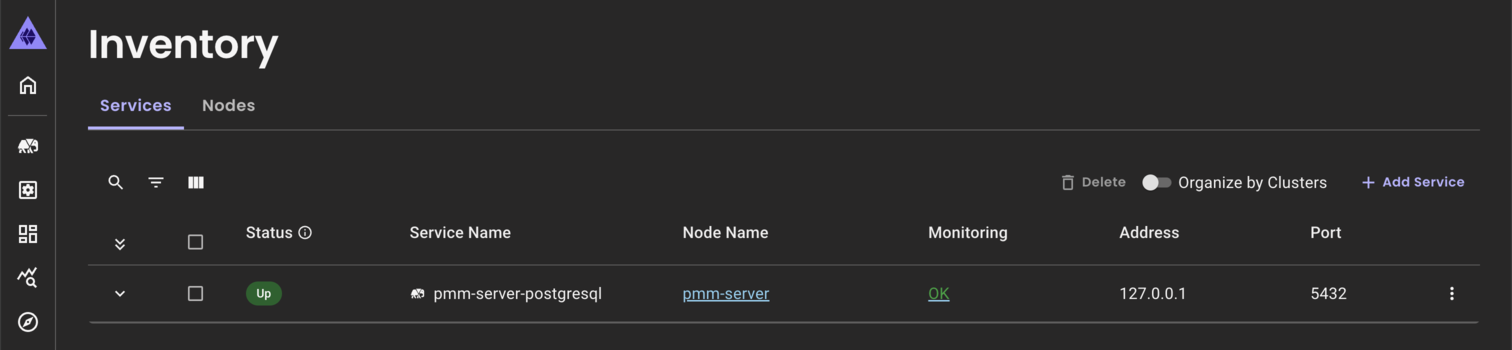
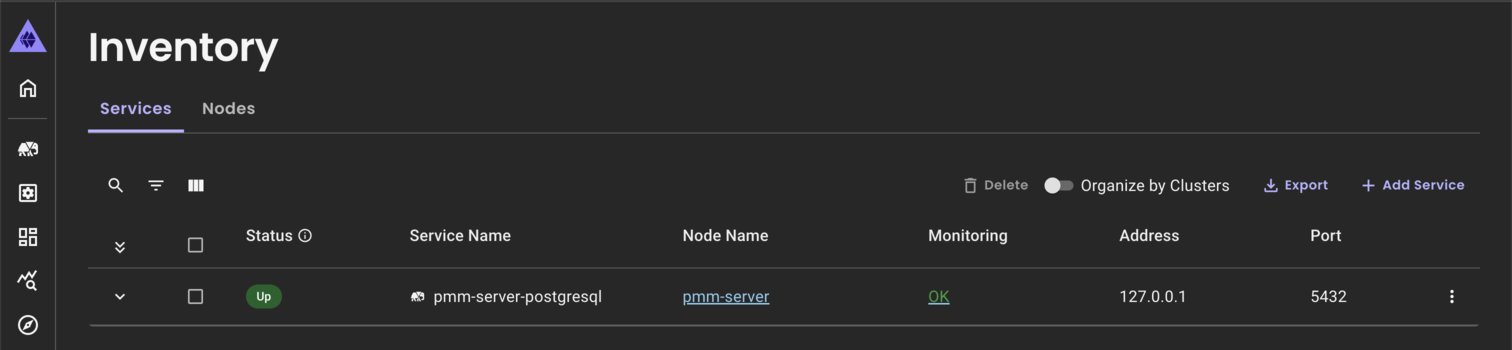
docs(inventory): document the Services CSV export
Cover the Export button from #6144 (PMM-15481) on the Inventory page:
which services the file holds, its fixed and label columns, the
label: prefix for clashing label names and the formula guard. Refresh
the Services screenshot so it shows the button, and add the 3.11.0
release note.

diff --git a/documentation/docs/use/dashboard-inventory.md b/documentation/docs/use/dashboard-inventory.md
@@ -1,6 +1,6 @@
 # About PMM Inventory
 
-The **Inventory** page lists every node, service and agent registered in PMM. Use it to check the monitoring status of your databases, edit service labels, and remove the objects that you no longer monitor.
+The **Inventory** page lists every node, service and agent registered in PMM. Use it to check the monitoring status of your databases, export your services to a CSV file, edit service labels, and remove the objects that you no longer monitor.
 
 Starting with PMM 3.11.0, **Inventory** is part of the PMM UI instead of a Grafana page. Bookmarks and links to the previous Inventory and service editing pages open the matching new page.
 
@@ -40,6 +40,8 @@ The **Services** tab lists the monitored services and the nodes that they run on
 | **Service ID** | The unique ID of the service. Hidden by default. |
 
 To add a service, click **Add Service**, or go to **Inventory > Add service**. For details, see [Connect databases](../install-pmm/install-pmm-client/connect-database/index.md).
+
+To download the services as a CSV file, click **Export**. For details, see [Export services to a CSV file](#export-services-to-a-csv-file).
 
 ### Service details
 
@@ -97,6 +99,44 @@ Each service has the following attributes:
     - PMM doesn't capture the version of the internal PostgreSQL database.
     - PMM captures the version only when you add the service with PMM Client 2.41.0 or later.
     - PMM doesn't update the version when you upgrade the database. To update it, remove the service and add it again.
+
+### Export services to a CSV file
+
+You can download the services as a CSV file, for example to keep an inventory report or to review the services in a spreadsheet.
+
+To export services:
+{.power-number}
+
+1. Go to **Inventory > Services**.
+2. To export only some services, search or filter the table, or select the checkboxes of the services to export.
+3. Click **Export**. PMM downloads the file as `inventory_services_export_{timestamp}.csv`.
+
+If you select services, the file contains only the selected services. Otherwise, it contains every service that matches the search and filters, in the order of the table. This includes the services on other pages and in collapsed clusters. If no service matches, **Export** is disabled.
+
+#### Exported columns
+
+Each row of the file is a service. The columns don't depend on which columns the table shows. The file starts with the following columns:
+
+| Column | Description |
+|--------|-------------|
+| `service_id` | The unique ID of the service. |
+| `service_name` | The name of the service. |
+| `service_type` | The database type, for example `mysql` or `postgresql`. |
+| `status` | The status of the service, as shown in the **Status** column, for example `Up`. |
+| `monitoring` | The monitoring status, as shown in the **Monitoring** column: `OK`, `Warning` or `Failed`. |
+| `failed_agents` | The agents that cause the `Failed` monitoring status, separated by semicolons. Each agent appears with its type, ID and status, for example `QAN MySQL Slow Query Log agent (<agent ID>): Waiting`. Empty when no agent failed. |
+| `node_id` | The ID of the node that the service runs on. |
+| `node_name` | The name of the node that the service runs on. |
+| `address` | The IP address or DNS name of the service. |
+| `port` | The port that the service listens on. |
+
+The next columns hold the labels and attributes that the service details show under **Labels**. `environment`, `cluster` and `replication_set` come first. The custom labels and the other attributes, such as `version`, follow in alphabetical order. A column appears only when at least one exported service has a value for it. Services without that value have an empty cell.
+
+If a custom label has the same name as a column in the previous table, its column is named `label:<name>`, for example `label:status`.
+
+If a value starts with `=`, `+`, `-`, `@`, a tab or a carriage return, PMM adds an apostrophe (`'`) before it. This prevents spreadsheet applications from running the value as a formula.
+
+If you process the file automatically, match columns by header name rather than by position. The label columns depend on which services you export.
 
 ## Nodes tab
 

diff --git a/documentation/docs/release-notes/3.11.0.md b/documentation/docs/release-notes/3.11.0.md
@@ -30,6 +30,7 @@ Percona Monitoring and Management (PMM) is an open source database monitoring, m
     Improvements to be added. One bullet per Feature or Improvement ticket: `- [PMM-XXXXX](https://perconadev.atlassian.net/browse/PMM-XXXXX): What changes for the user.` If some entries apply only to PMM HA Cluster, group them under `### PMM HA Cluster deployments` and put the rest under `### All deployments`.
 
 - [PMM-15002](https://perconadev.atlassian.net/browse/PMM-15002): [Inventory](../use/dashboard-inventory.md) is now part of the PMM UI instead of a Grafana page. The **Options** column is replaced by :material-chevron-down: at the start of each row for its details, and :material-dots-vertical: at the end of each row for its actions. Bookmarks and links to the previous Inventory pages, including their filters, open the matching new page.
+- [PMM-15481](https://perconadev.atlassian.net/browse/PMM-15481): You can now export services from **Inventory > Services** to a CSV file. Click **Export** to download the selected services, or every service that matches the search and filters. Each row includes the status, the monitoring status, the agents that failed, and the labels of the service. For details, see [Export services to a CSV file](../use/dashboard-inventory.md#export-services-to-a-csv-file).
 
 ## ✅ Fixed issues
 
